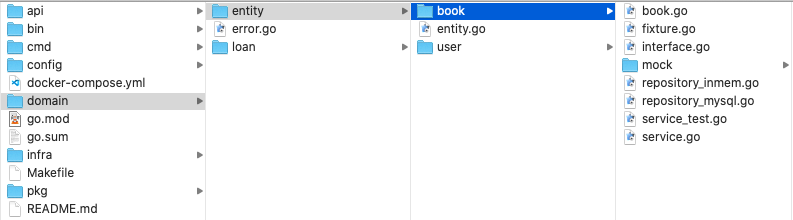
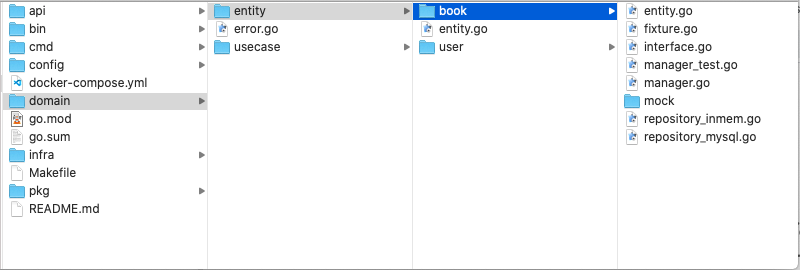
feat: new version

Changed region(s): [[0.0, 0.0, 1.0, 1.0], [0.2421, 0.8455, 0.2724, 0.8727], [0.2421, 0.2727, 0.2724, 0.3]]

diff --git a/content/post/2020-06-29-clean-architecture-2anos-depois.md b/content/post/2020-06-29-clean-architecture-2anos-depois.md
@@ -31,17 +31,29 @@ Abaixo faço uma explicação do que significa cada diretório do projeto.
 
 ## Camada Entity
 
-Vamos começar pela camada mais interna da arquitetura:
+Vamos começar pela camada mais interna da arquitetura.
+
+De acordo com o [post do Uncle Bob](https://blog.cleancoder.com/uncle-bob/2012/08/13/the-clean-architecture.html):
+
+> Entities encapsulate *Enterprise wide* business rules. An entity can be an object with methods, or it can be a set of data structures and functions. It doesn’t matter so long as the entities could be used by many different applications in the enterprise.
+
+A estrutura ficou desta forma:
 
 [![entity](/images/posts/1-entity_book.png)](/images/posts/1-entity_book.png)
 
-Neste pacote temos a definição da entidade (`book.go`) e da interface do `Repository` e `UseCase` (em `interface.go`). Também temos as implementações do repositório em `MySQL` (`repository_mysql.go`) e em memória (`repository_inmem.go`), assim como a implementação do `UseCase` (em `service.go`). O `UseCase` deste pacote implementa as operações básicas em relação a entidade, o famoso `CRUD`. Também encontramos os `mocks` gerados pelo `Gomock`, conforme explicado neste [post](https://eltonminetto.dev/post/2019-12-19-usando-gomock/). Estes mocks são usados pelas demais camadas da arquitetura durante os testes.
+Neste pacote temos a definição da entidade (`entity.go`) e da interface do `Repository` e `Manager` (em `interface.go`). O `Manager` vai usar um `Repository` para realizar as operações básicas na entidade, como o famoso `CRUD` . Também temos as implementações do repositório em `MySQL` (`repository_mysql.go`) e em memória (`repository_inmem.go`), assim como a implementação da interface `Manager` (em `manager.go`).Também encontramos os `mocks` gerados pelo `Gomock`, conforme explicado neste [post](https://eltonminetto.dev/post/2019-12-19-usando-gomock/). Estes mocks são usados pelas demais camadas da arquitetura durante os testes.
 
 ## Camada UseCase
 
+De acordo com o Uncle Bob:
+
+> The software in this layer contains application specific business rules. It encapsulates and implements all of the use cases of the system
+
+A estrutura ficou desta forma:
+
 [![domain](/images/posts/2-domain_loan.png)](/images/posts/2-domain_loan.png)
 
-Nos demais pacotes dentro de `domain` implementamos as regras de negócio do nosso produto. De acordo com a definição da arquitetura, estes `UseCases` fazem uso das entidades e dos serviços que fazem o tratamento das mesmas (o `CRUD`). Também é possível ver a existência de mocks, que são usados pelas outras camadas da arquitetura.
+Nos pacotes dentro de `domain/usecase` implementamos as regras de negócio do nosso produto. De acordo com a definição da arquitetura, estes `UseCases` fazem uso das entidades e dos `managers` que fazem o tratamento das mesmas (o `CRUD`). Também é possível ver a existência de mocks, que são usados pelas outras camadas da arquitetura.
 
 ## Camada Controller
 
@@ -60,9 +72,9 @@ dataSourceName := fmt.Sprintf("%s:%s@tcp(%s:3306)/%s?parseTime=true", config.DB_
       log.Fatal(err.Error())
    }
    defer db.Close()
-   repo := book.NewMySQLRepoRepository(db)
-   service := book.NewService(repo)
-   all, err := service.Search(query)
+   repo := book.NewMySQLRepository(db)
+   manager := book.NewManager(repo)
+   all, err := manager.Search(query)
    if err != nil {
       log.Fatal(err)
    }
@@ -128,4 +140,6 @@ Além dos pacotes comentados acima, podemos incluir na nossa aplicação outros 
 No [README.md do repositório](https://github.com/eminetto/clean-architecture-go-v2) constam mais detalhes, como instruções para compilação e exemplos de uso.
 
 Espero com este post fortalecer minha recomendação quanto a esta arquitetura e também receber feedbacks quanto aos códigos. Se você quer aprender a usar esta arquitetura em sua linguagem favorita, fica a sugestão para usar este repositório como exemplo para este aprendizado. Assim podemos ter diferentes implementações, em diferentes linguagens, para facilitar a comparação.
+
+Agradecimentos especiais ao amigo [Gustavo Schirmer](https://twitter.com/hurrycaner) que deu ótimos feedbacks sobre o texto e os códigos. 
 
